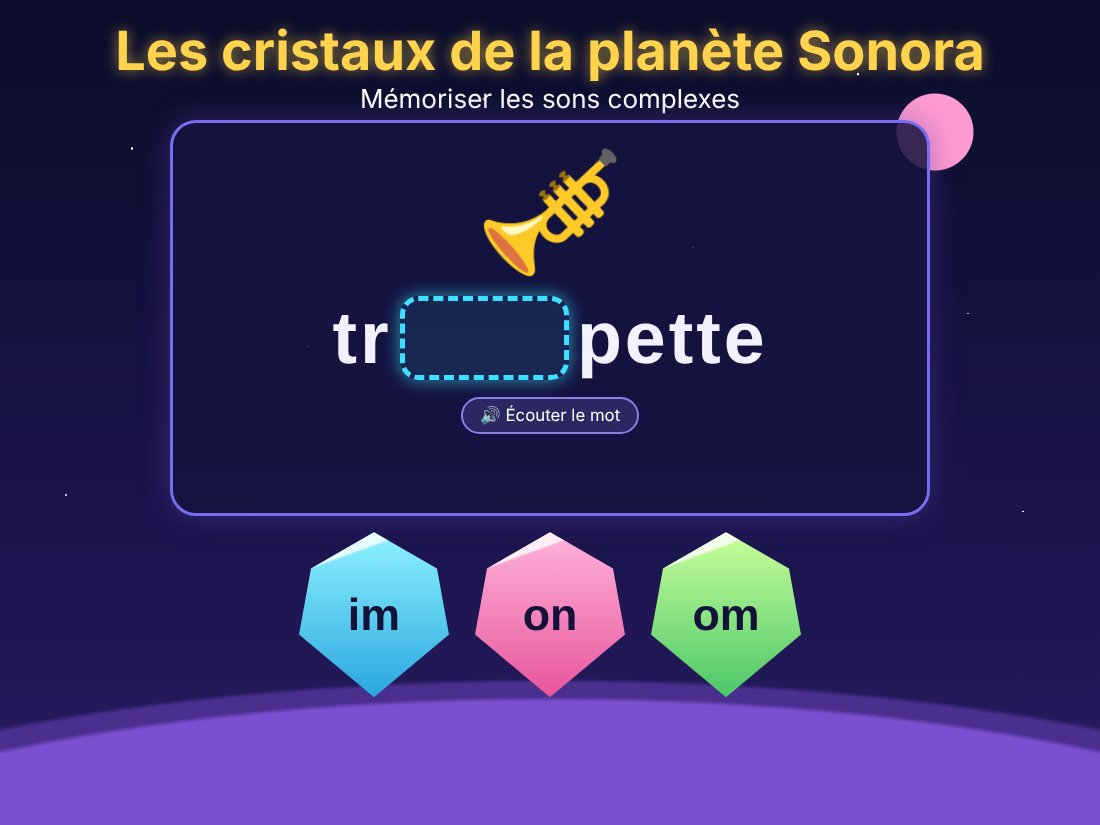
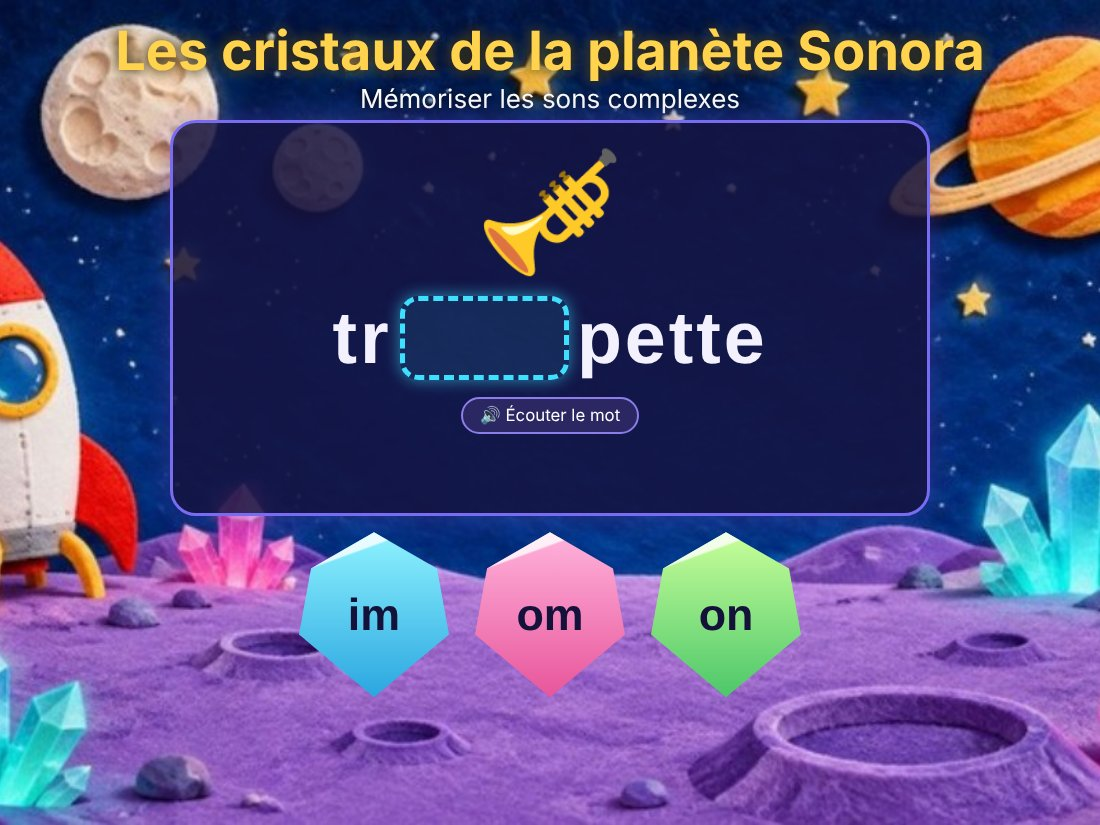
Les cristaux de la planète Sonora : décor de la planète, Zouk et sa fusée en feutrine, nouvelle vignette

diff --git a/assets/les-cristaux-de-la-planete-sonora.html b/assets/les-cristaux-de-la-planete-sonora.html
@@ -27,7 +27,7 @@ h1{font-size:clamp(1.5rem,4vw,2.4rem);text-align:center;margin:.3em 0 .1em;color
 .carte{background:#1b1946e6;border:2px solid #6c5cd6;border-radius:20px;padding:16px 18px;margin:12px 0;box-shadow:0 6px 24px #0008}
 .carte h2{margin:0 0 .5em;font-size:1.15rem;color:var(--cyan)}
 .histoire{display:flex;gap:14px;align-items:center}
-.zouk{width:92px;height:92px;flex:none;display:grid;place-items:center;font-size:64px}
+.zouk{width:120px;height:120px;flex:none;display:grid;place-items:center;font-size:64px}
 .zouk img{width:100%;height:100%;object-fit:contain}
 .puces{display:flex;flex-wrap:wrap;gap:8px}
 .son{font:inherit;font-size:1.35rem;font-weight:bold;min-width:64px;padding:.35em .6em;border-radius:14px;border:2px solid #8b7ee8;background:#2a2763;color:#fff;cursor:pointer}
@@ -65,6 +65,7 @@ h1{font-size:clamp(1.5rem,4vw,2.4rem);text-align:center;margin:.3em 0 .1em;color
 .ecoute{font:inherit;font-size:1.05rem;padding:.4em 1em;border-radius:999px;border:2px solid #8b7ee8;background:#2a2763;color:#fff;cursor:pointer}
 .message{min-height:2.7em;margin:.6em auto 0;max-width:620px;font-size:1.08rem;display:flex;align-items:center;justify-content:center;gap:8px}
 .message .z{font-size:30px}
+.message img.z{height:58px;width:auto;flex:none}
 .cristaux{display:flex;justify-content:center;flex-wrap:wrap;gap:clamp(10px,3vw,26px);margin:16px 0 6px}
 .cristal{font:inherit;font-family:"Comic Sans MS","Andika","Trebuchet MS",sans-serif;font-weight:bold;font-size:clamp(1.9rem,6vw,2.8rem);width:clamp(110px,22vw,150px);height:clamp(120px,24vw,165px);border:0;cursor:pointer;color:#14123a;position:relative;
  clip-path:polygon(50% 0,92% 22%,100% 62%,50% 100%,0 62%,8% 22%);
@@ -79,7 +80,7 @@ h1{font-size:clamp(1.5rem,4vw,2.4rem);text-align:center;margin:.3em 0 .1em;color
 @keyframes envol{to{transform:translateY(-140px) scale(.4);opacity:0}}
 .compteur{text-align:center;opacity:.8;font-size:.95rem}
 /* fin */
-.decollage{height:200px;position:relative;overflow:hidden}
+.decollage{height:290px;position:relative;overflow:hidden}
 .fusee{position:absolute;left:50%;bottom:10px;transform:translateX(-50%);font-size:90px;width:120px;text-align:center}
 .fusee img{width:100%}
 .fusee.part{animation:decolle 2.8s ease-in forwards}
@@ -212,6 +213,8 @@ const RESSEMBLE={ou:["oi","on","eu"],oi:["ou","on"],eu:["ou","au"],an:["on","in"
 const DOSSIER_IMAGES="/images/planete-sons/mots/";
 
 const $=id=>document.getElementById(id);
+let zoukOK=false;{const t=new Image();t.onload=()=>zoukOK=true;t.src="/images/planete-sons/zouk.png"}
+const ZZ=()=>zoukOK?'<img class="z" src="/images/planete-sons/zouk.png" alt="">':'<span class="z">👽</span>';
 const melange=a=>{a=a.slice();for(let i=a.length-1;i>0;i--){const j=Math.random()*(i+1)|0;[a[i],a[j]]=[a[j],a[i]]}return a};
 function lire(s){const [m,img]=s.split("|");const r=m.match(/^(.*)\[(.+)\](.*)$/);return{avant:r[1],son:r[2],apres:r[3],mot:r[1]+r[2]+r[3],img}}
 const sansAccent=s=>s.normalize("NFD").replace(/[̀-ͯ]/g,"").replace(/ /g,"-");
@@ -290,7 +293,7 @@ function repondre(b,s){
  if(s===q.son){
   bloque=true;bip(true);b.classList.add("bon");
   const t=$("trou");t.textContent=q.son;t.classList.add("rempli");
-  $("message").innerHTML=`<span class="z">👽</span> ${["Bravo !","Super !","Bien vu !","Génial !","Exact !"][Math.random()*5|0]} <b>${q.avant}<span style="color:var(--or)">${q.son}</span>${q.apres}</b>`;
+  $("message").innerHTML=`${ZZ()} ${["Bravo !","Super !","Bien vu !","Génial !","Exact !"][Math.random()*5|0]} <b>${q.avant}<span style="color:var(--or)">${q.son}</span>${q.apres}</b>`;
   setTimeout(()=>dire(q.mot),150);
   if(!q.revision){resultats.push({...q,premier:essais===0});faits++;const cases=$("reservoir").children;if(cases[faits-1])cases[faits-1].classList.add("plein")}
   else{const r=resultats.find(x=>x.mot===q.mot&&x.son===q.son);if(r)r.revu=true}
@@ -298,9 +301,9 @@ function repondre(b,s){
  }else{
   essais++;bip(false);b.classList.add("faux");
   if(essais===1){
-   $("message").innerHTML=`<span class="z">👽</span> ${conseil(q,s)}`;
+   $("message").innerHTML=`${ZZ()} ${conseil(q,s)}`;
   }else{
-   $("message").innerHTML=`<span class="z">👽</span> Le bon cristal brille. Touche-le et retiens bien : <b>${q.mot}</b> s'écrit avec <b>${q.son}</b>.`;
+   $("message").innerHTML=`${ZZ()} Le bon cristal brille. Touche-le et retiens bien : <b>${q.mot}</b> s'écrit avec <b>${q.son}</b>.`;
    [...$("cristaux").children].forEach(x=>{if(x.textContent===q.son)x.classList.add("montre")});
   }
   if(essais===1&&R.revision&&!q.revision){file.splice(Math.min(pos+3,file.length),0,{...q,revision:true})}

diff --git a/site/outils/les-cristaux-de-la-planete-sonora.html b/site/outils/les-cristaux-de-la-planete-sonora.html
@@ -27,7 +27,7 @@ h1{font-size:clamp(1.5rem,4vw,2.4rem);text-align:center;margin:.3em 0 .1em;color
 .carte{background:#1b1946e6;border:2px solid #6c5cd6;border-radius:20px;padding:16px 18px;margin:12px 0;box-shadow:0 6px 24px #0008}
 .carte h2{margin:0 0 .5em;font-size:1.15rem;color:var(--cyan)}
 .histoire{display:flex;gap:14px;align-items:center}
-.zouk{width:92px;height:92px;flex:none;display:grid;place-items:center;font-size:64px}
+.zouk{width:120px;height:120px;flex:none;display:grid;place-items:center;font-size:64px}
 .zouk img{width:100%;height:100%;object-fit:contain}
 .puces{display:flex;flex-wrap:wrap;gap:8px}
 .son{font:inherit;font-size:1.35rem;font-weight:bold;min-width:64px;padding:.35em .6em;border-radius:14px;border:2px solid #8b7ee8;background:#2a2763;color:#fff;cursor:pointer}
@@ -65,6 +65,7 @@ h1{font-size:clamp(1.5rem,4vw,2.4rem);text-align:center;margin:.3em 0 .1em;color
 .ecoute{font:inherit;font-size:1.05rem;padding:.4em 1em;border-radius:999px;border:2px solid #8b7ee8;background:#2a2763;color:#fff;cursor:pointer}
 .message{min-height:2.7em;margin:.6em auto 0;max-width:620px;font-size:1.08rem;display:flex;align-items:center;justify-content:center;gap:8px}
 .message .z{font-size:30px}
+.message img.z{height:58px;width:auto;flex:none}
 .cristaux{display:flex;justify-content:center;flex-wrap:wrap;gap:clamp(10px,3vw,26px);margin:16px 0 6px}
 .cristal{font:inherit;font-family:"Comic Sans MS","Andika","Trebuchet MS",sans-serif;font-weight:bold;font-size:clamp(1.9rem,6vw,2.8rem);width:clamp(110px,22vw,150px);height:clamp(120px,24vw,165px);border:0;cursor:pointer;color:#14123a;position:relative;
  clip-path:polygon(50% 0,92% 22%,100% 62%,50% 100%,0 62%,8% 22%);
@@ -79,7 +80,7 @@ h1{font-size:clamp(1.5rem,4vw,2.4rem);text-align:center;margin:.3em 0 .1em;color
 @keyframes envol{to{transform:translateY(-140px) scale(.4);opacity:0}}
 .compteur{text-align:center;opacity:.8;font-size:.95rem}
 /* fin */
-.decollage{height:200px;position:relative;overflow:hidden}
+.decollage{height:290px;position:relative;overflow:hidden}
 .fusee{position:absolute;left:50%;bottom:10px;transform:translateX(-50%);font-size:90px;width:120px;text-align:center}
 .fusee img{width:100%}
 .fusee.part{animation:decolle 2.8s ease-in forwards}
@@ -212,6 +213,8 @@ const RESSEMBLE={ou:["oi","on","eu"],oi:["ou","on"],eu:["ou","au"],an:["on","in"
 const DOSSIER_IMAGES="/images/planete-sons/mots/";
 
 const $=id=>document.getElementById(id);
+let zoukOK=false;{const t=new Image();t.onload=()=>zoukOK=true;t.src="/images/planete-sons/zouk.png"}
+const ZZ=()=>zoukOK?'<img class="z" src="/images/planete-sons/zouk.png" alt="">':'<span class="z">👽</span>';
 const melange=a=>{a=a.slice();for(let i=a.length-1;i>0;i--){const j=Math.random()*(i+1)|0;[a[i],a[j]]=[a[j],a[i]]}return a};
 function lire(s){const [m,img]=s.split("|");const r=m.match(/^(.*)\[(.+)\](.*)$/);return{avant:r[1],son:r[2],apres:r[3],mot:r[1]+r[2]+r[3],img}}
 const sansAccent=s=>s.normalize("NFD").replace(/[̀-ͯ]/g,"").replace(/ /g,"-");
@@ -290,7 +293,7 @@ function repondre(b,s){
  if(s===q.son){
   bloque=true;bip(true);b.classList.add("bon");
   const t=$("trou");t.textContent=q.son;t.classList.add("rempli");
-  $("message").innerHTML=`<span class="z">👽</span> ${["Bravo !","Super !","Bien vu !","Génial !","Exact !"][Math.random()*5|0]} <b>${q.avant}<span style="color:var(--or)">${q.son}</span>${q.apres}</b>`;
+  $("message").innerHTML=`${ZZ()} ${["Bravo !","Super !","Bien vu !","Génial !","Exact !"][Math.random()*5|0]} <b>${q.avant}<span style="color:var(--or)">${q.son}</span>${q.apres}</b>`;
   setTimeout(()=>dire(q.mot),150);
   if(!q.revision){resultats.push({...q,premier:essais===0});faits++;const cases=$("reservoir").children;if(cases[faits-1])cases[faits-1].classList.add("plein")}
   else{const r=resultats.find(x=>x.mot===q.mot&&x.son===q.son);if(r)r.revu=true}
@@ -298,9 +301,9 @@ function repondre(b,s){
  }else{
   essais++;bip(false);b.classList.add("faux");
   if(essais===1){
-   $("message").innerHTML=`<span class="z">👽</span> ${conseil(q,s)}`;
+   $("message").innerHTML=`${ZZ()} ${conseil(q,s)}`;
   }else{
-   $("message").innerHTML=`<span class="z">👽</span> Le bon cristal brille. Touche-le et retiens bien : <b>${q.mot}</b> s'écrit avec <b>${q.son}</b>.`;
+   $("message").innerHTML=`${ZZ()} Le bon cristal brille. Touche-le et retiens bien : <b>${q.mot}</b> s'écrit avec <b>${q.son}</b>.`;
    [...$("cristaux").children].forEach(x=>{if(x.textContent===q.son)x.classList.add("montre")});
   }
   if(essais===1&&R.revision&&!q.revision){file.splice(Math.min(pos+3,file.length),0,{...q,revision:true})}

diff --git a/site/post/les-cristaux-de-la-planete-sonora/index.html b/site/post/les-cristaux-de-la-planete-sonora/index.html
@@ -64,7 +64,7 @@
   <h1>Les cristaux de la planète Sonora</h1>
   <p class="meta">16 novembre 2026 · <span class="chip">Lecture-compréhension</span></p>
   <div class="reperes"><span class="niv">CP</span><span class="niv">CE1</span><span>👥 1 joueur ou la classe</span><span title="À l'écran">🖥 À l'écran</span><span title="Projetable">📽 Projetable</span></div>
-  <div class="prose"><p>Zouk, un petit extraterrestre, est en panne sur la planète Sonora. Sur sa planète, les mots ont perdu leurs sons ! Un mot apparaît avec un trou à la place du son complexe (p▢da) ; l&#x27;ordinateur le lit à voix haute. L&#x27;élève touche le cristal qui manque. Chaque bonne réponse remplit le réservoir de la fusée ; quand il est plein, la fusée décolle.</p><div class="embed"><div class="embed-bar"><button class="btn embed-fs" type="button" onclick="pleinEcran(this)">⛶ Plein écran</button></div><iframe src="/outils/les-cristaux-de-la-planete-sonora.html?v=92d30724" style="height:calc(100vh - 84px);min-height:460px;max-height:1000px" title="Outil interactif" loading="lazy" allow="microphone; fullscreen" allowfullscreen></iframe></div><script>
+  <div class="prose"><p>Zouk, un petit extraterrestre, est en panne sur la planète Sonora. Sur sa planète, les mots ont perdu leurs sons ! Un mot apparaît avec un trou à la place du son complexe (p▢da) ; l&#x27;ordinateur le lit à voix haute. L&#x27;élève touche le cristal qui manque. Chaque bonne réponse remplit le réservoir de la fusée ; quand il est plein, la fusée décolle.</p><div class="embed"><div class="embed-bar"><button class="btn embed-fs" type="button" onclick="pleinEcran(this)">⛶ Plein écran</button></div><iframe src="/outils/les-cristaux-de-la-planete-sonora.html?v=24ae26b3" style="height:calc(100vh - 84px);min-height:460px;max-height:1000px" title="Outil interactif" loading="lazy" allow="microphone; fullscreen" allowfullscreen></iframe></div><script>
 function pleinEcran(b){
   var f = b.closest('.embed').querySelector('iframe');
   var req = f.requestFullscreen || f.webkitRequestFullscreen;
